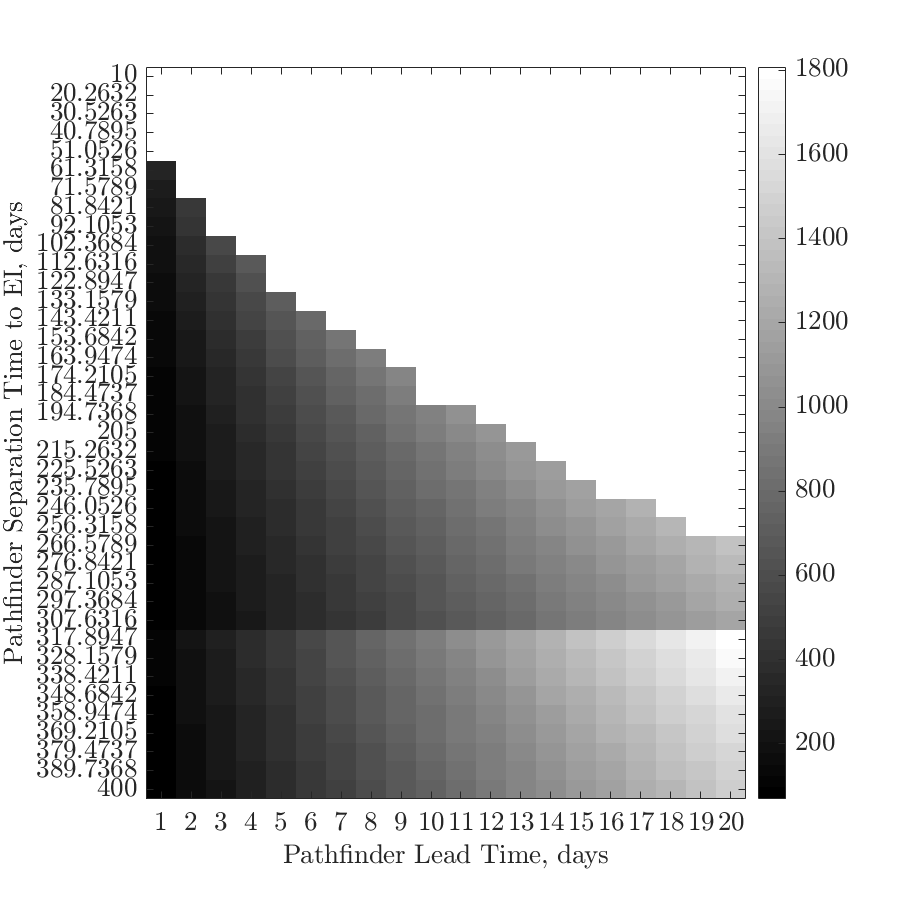
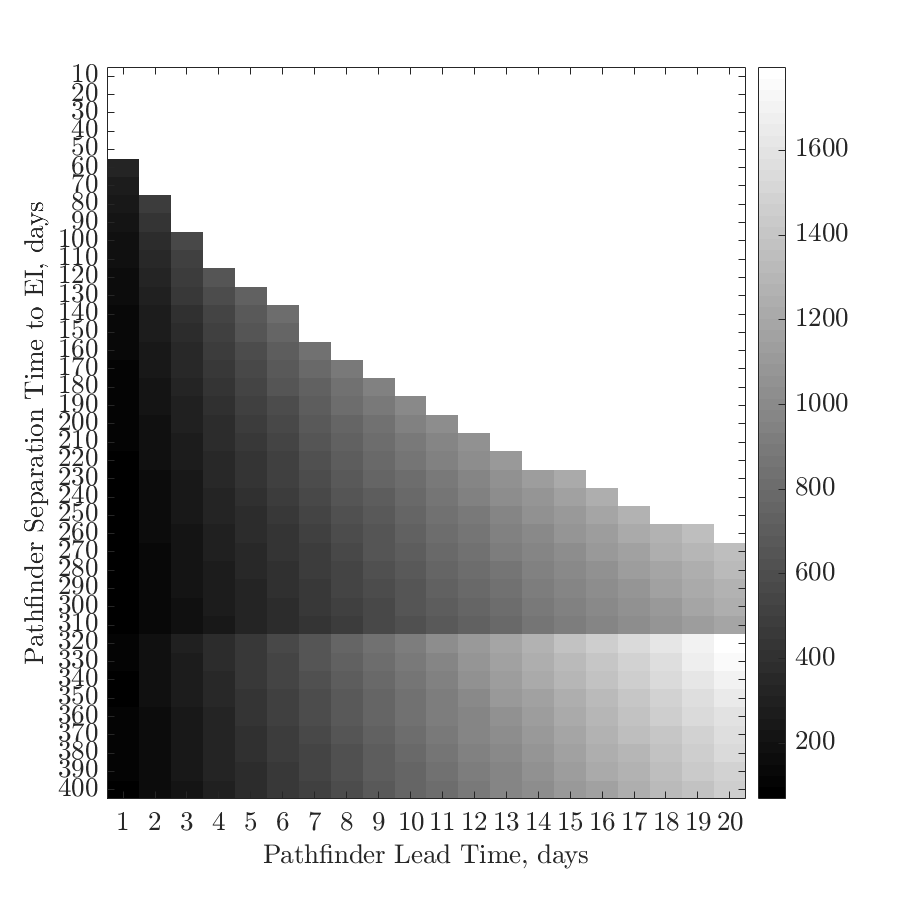
Updated bad y-axis values for the refined TCM graph

diff --git a/asim-master/aa_neptune_tcm_graph.m b/asim-master/aa_neptune_tcm_graph.m
@@ -31,7 +31,7 @@ rotn = [x_axis, y_axis, z_axis];    % parallel to the equator
 v_ei_0 = 30.5e3 * rotn * [sin(fpa_cur); cos(fpa_cur); 0]; % EI velocity
 
 % days, main s/c slowdown maneuver before original EI
-leadtime_tcm1_vect = linspace(10,400,39); 
+leadtime_tcm1_vect = linspace(10,400,40); 
 % days, main s/c FPA correction maneuver before modified EI
 % (this is also the main s/c delay time)
 leadtime_tcm2_vect = linspace(1,20,20);
